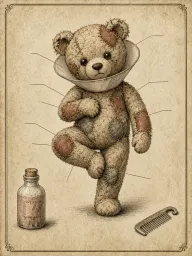
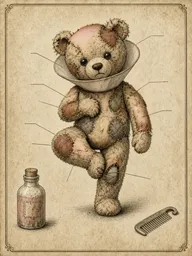
art(51): Mange Marvin gets visible mange via local Fooocus inpaint (bald pink-felt crown + patches); signature updated

diff --git a/docs/ART_DIRECTION.md b/docs/ART_DIRECTION.md
@@ -150,7 +150,7 @@ Fooocus-API listens on `127.0.0.1:8888` on the art PC and is not exposed to the 
 
 ### Repainting part of a plate (inpaint)
 
-`scripts/inpaint-card-art-fooocus.py` (`npm run art:inpaint -- ...`) repaints only the masked part of an existing plate through Fooocus-API's `POST /v2/generation/image-inpaint-outpaint`, on the same local GPU. Use it when text-to-image keeps losing a detail the plate already gets right, for example the bald patches on Mange Marvin.
+`scripts/inpaint-card-art-fooocus.py` (`npm run art:inpaint -- ...`) repaints only the masked part of an existing plate through Fooocus-API's `POST /v2/generation/image-inpaint-outpaint`, on the same local GPU. Use it when text-to-image keeps losing a detail the plate already gets right, for example the bald patches on Mange Marvin. Marvin's current plate (Nov 2026) is three chained inpaint passes over his old vet plate: a bald pink-felt crown, then shoulder, arm, chest and knee patches with `--disable-initial-latent`. Seeds, masks and hashes are in `art/renders/marvin-inpaint.json`.
 
 - The mask is a PNG the size of the image, white = repaint. Pass `--mask <png>`, or build one with repeatable `--ellipse cx,cy,rx,ry[,degrees]` (fractions of the image when every value is at most 1, otherwise pixels). Add `--wobble 0.2` for a ragged edge and `--mask-seed` to make it repeatable. `--mask-out` saves the mask for review.
 - `--prompt`, `--negative`, `--styles`, `--seed` and `--count` work like the generator; each seed writes `<out-root>/cand/<id>__s<seed>.png`. `--strength`, `--respective-field`, `--erode-dilate` and `--disable-initial-latent` map to Fooocus's inpaint settings. The last one starts the masked area from fresh noise, which follows the prompt harder when the old pixels (fur, say) keep coming back.
